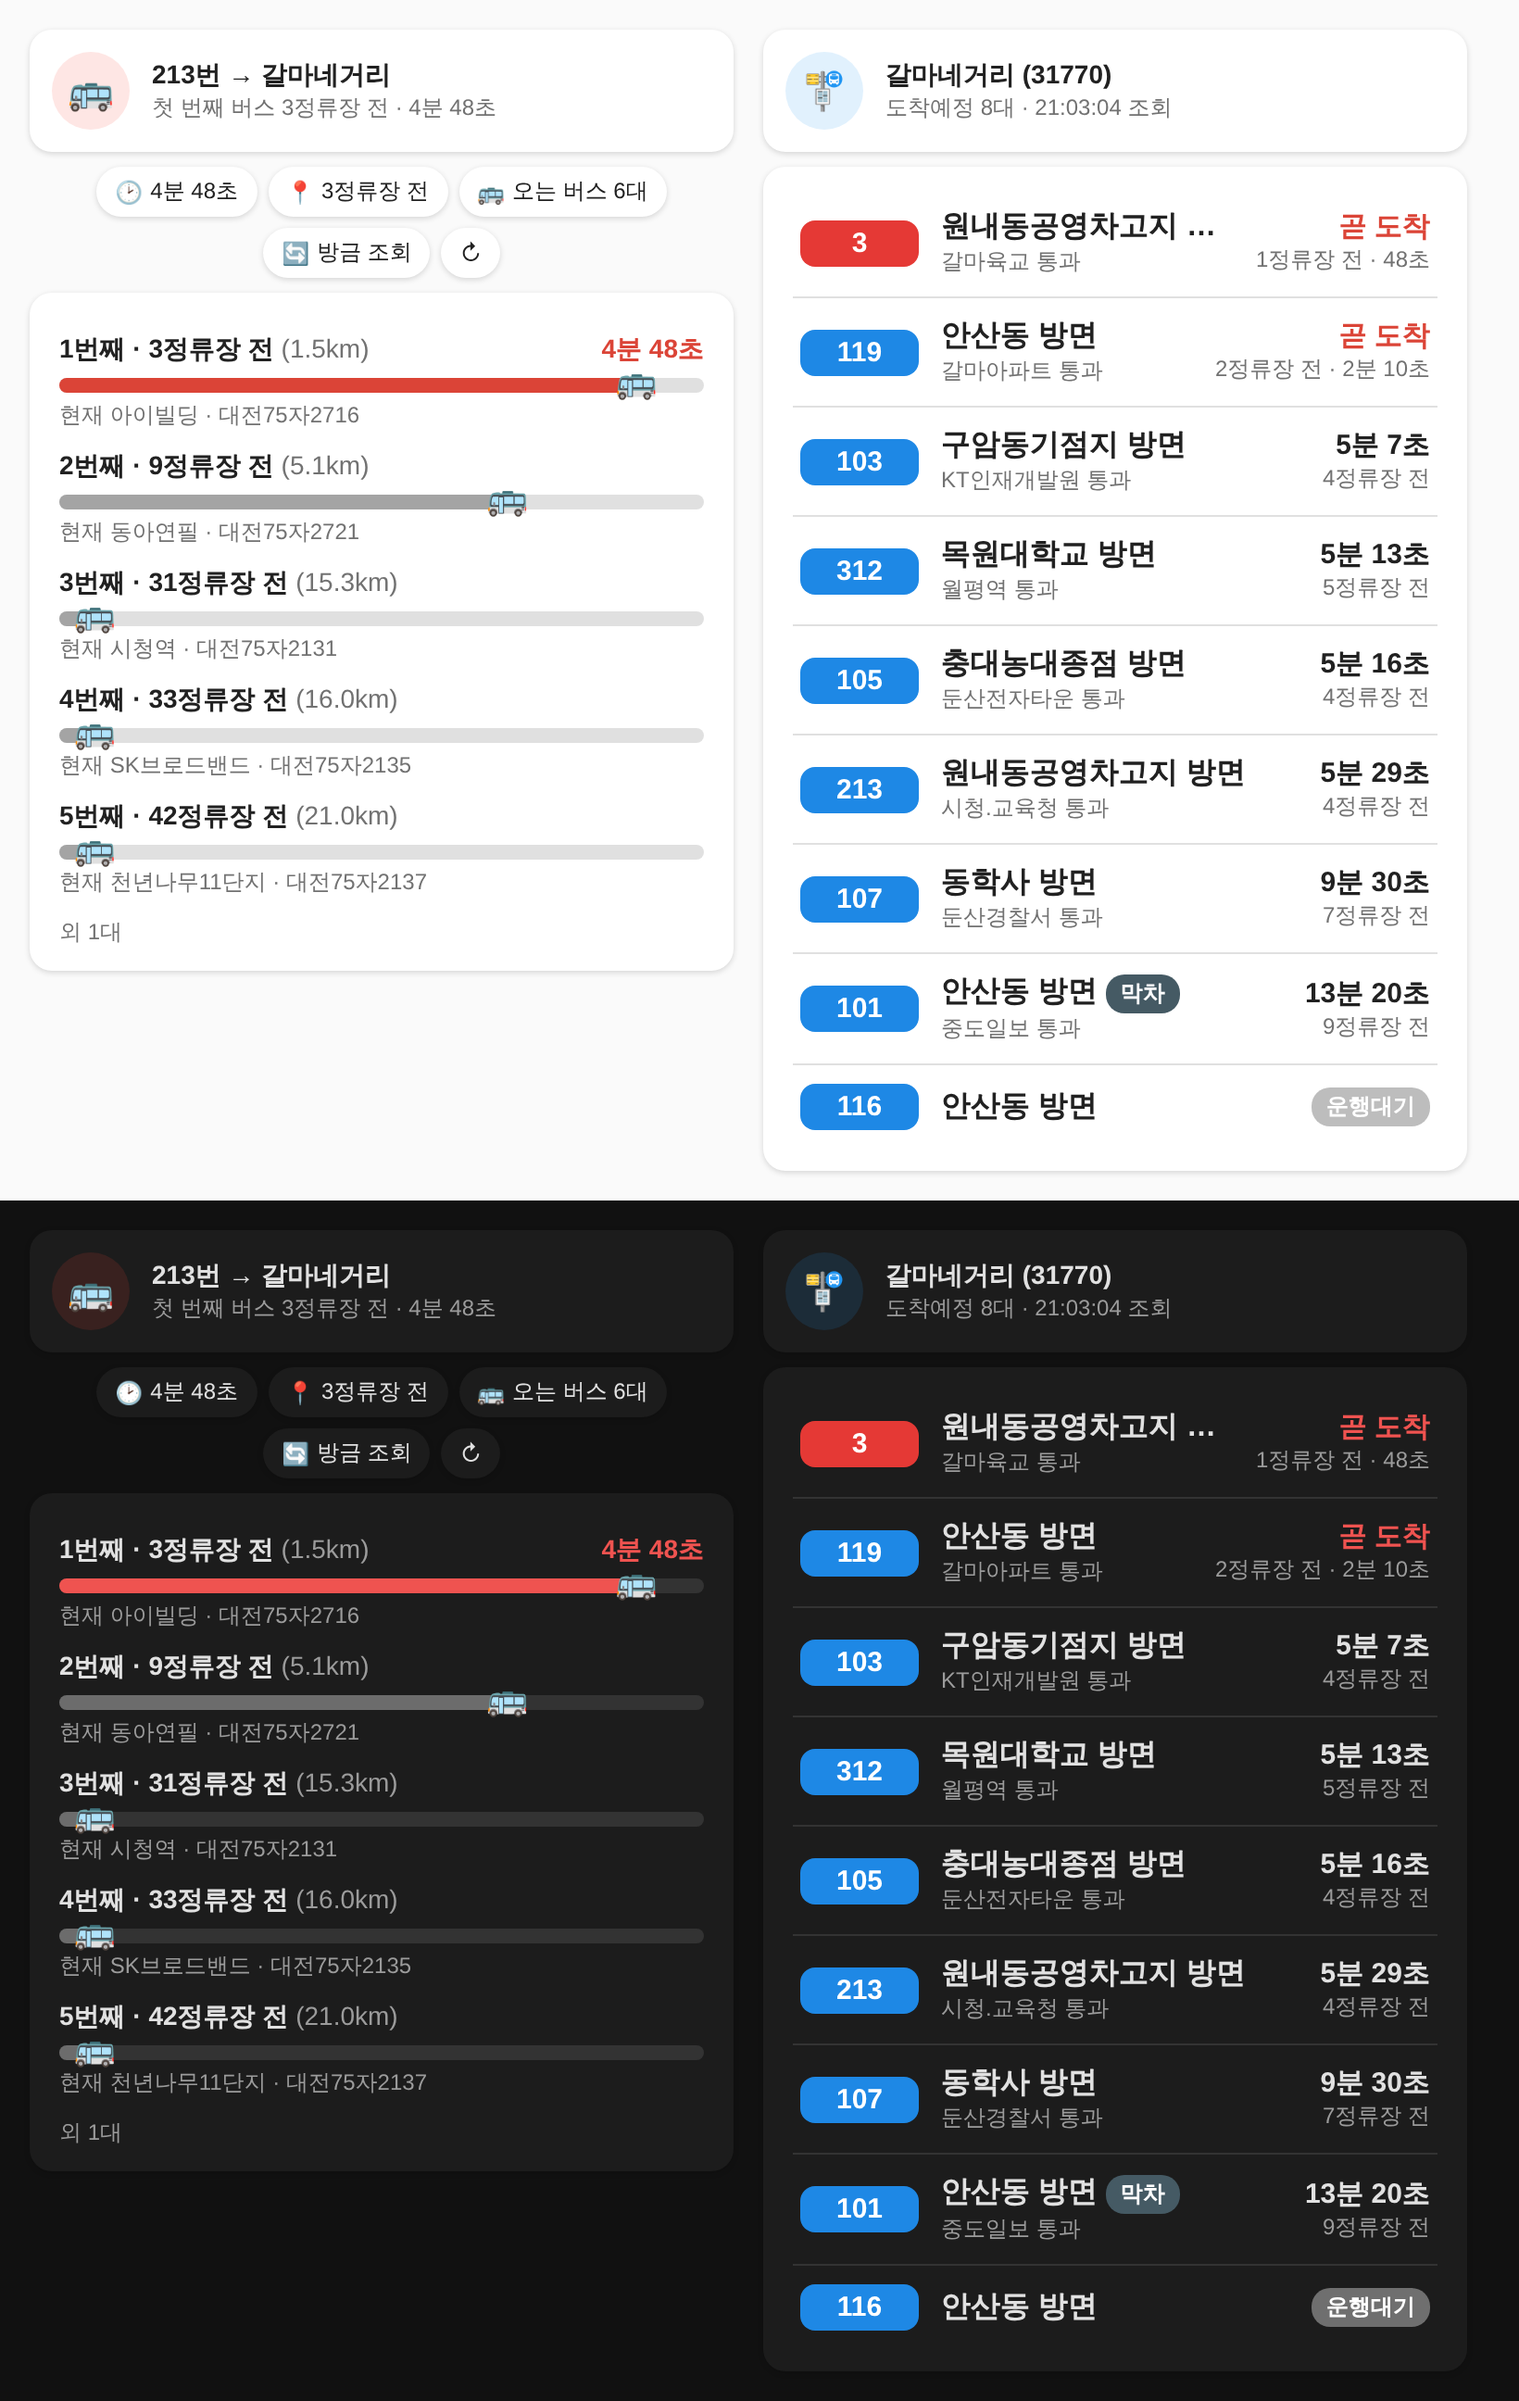
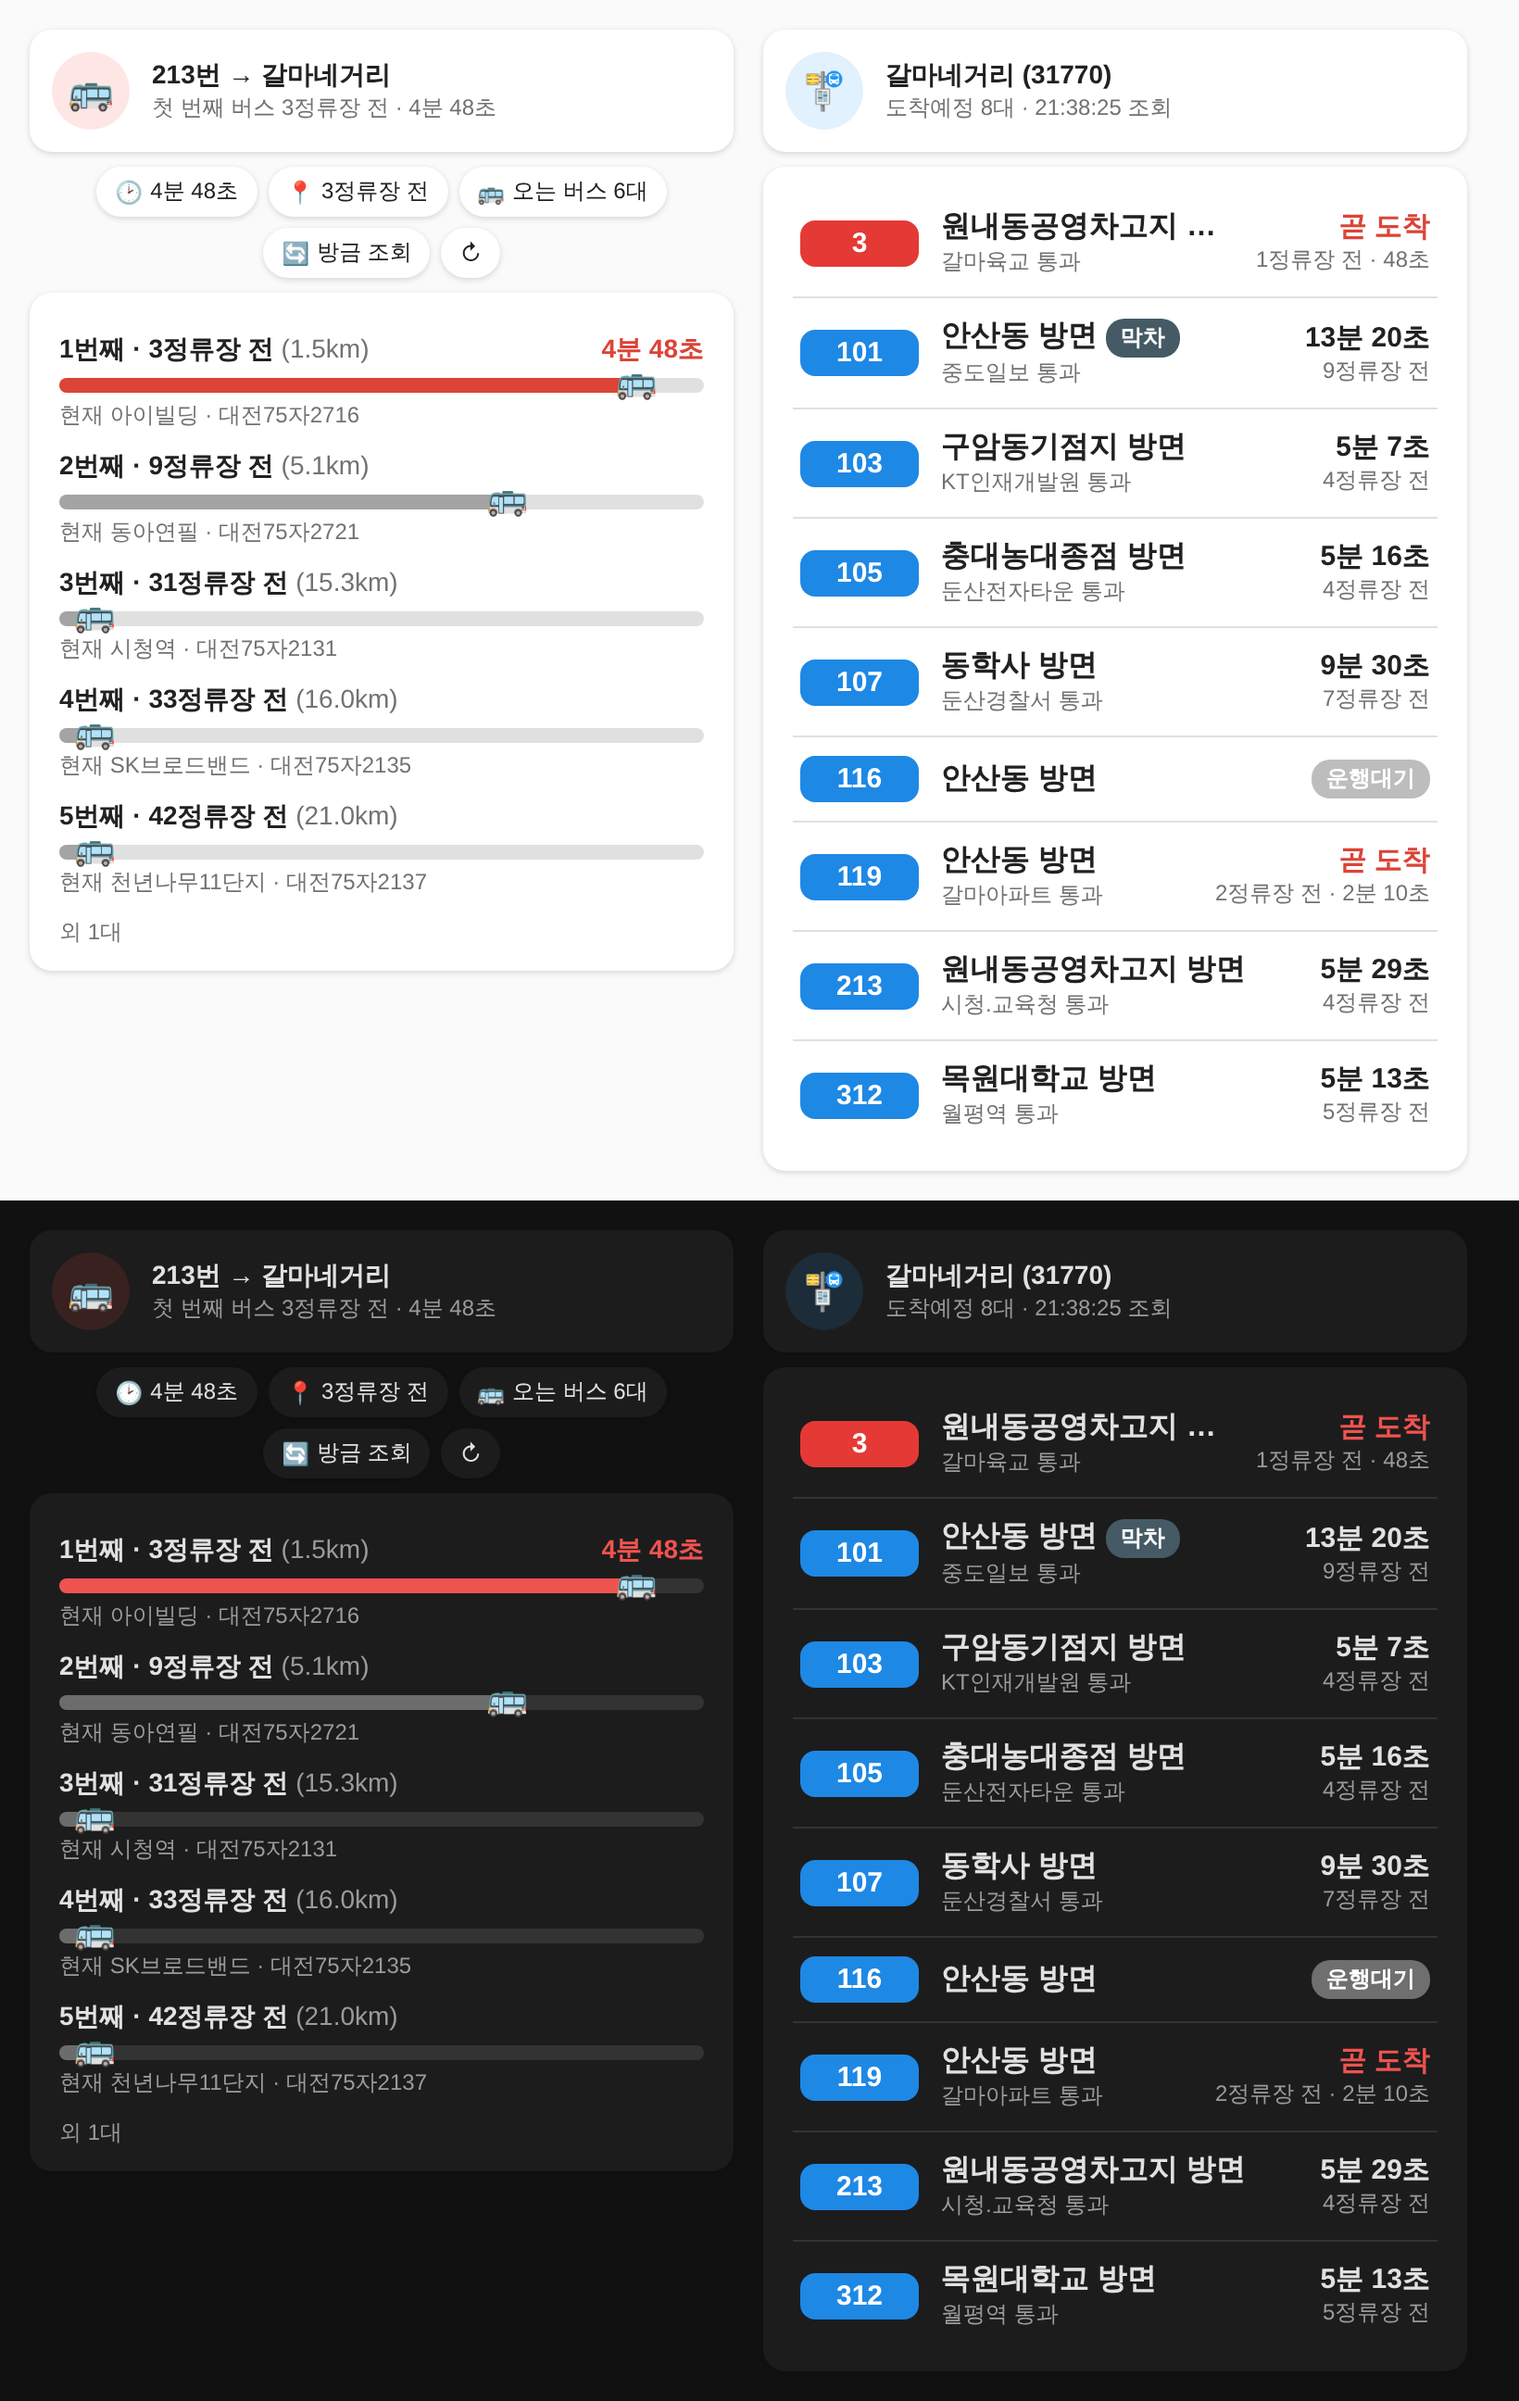
Sort station arrivals by route number
The station sensor's bus list and the per-route sensors are ordered
numerically (3 < 101 < 103 < 119), with lettered routes such as
급행/마을 after the numeric ones. Within a route the soonest bus is
still the first one.

Claude-Session: https://claude.ai/code/session_01KG28EwkVAkr6SPJMtJaLJQ

diff --git a/tests/test_features.py b/tests/test_features.py
@@ -225,3 +225,40 @@ async def test_reset_route_entities(hass):
         await hass.async_block_till_done()
         assert result == {"removed_entities": {entry.title: 2}}
         assert hass.states.get("sensor.daejeon_bus_31770_3") is not None
+
+
+# ---- 정렬 ----
+
+
+def test_route_number_key():
+    from custom_components.daejeon_bus.coordinator import route_number_key
+
+    routes = ["119", "급행2", "3", "103", "마을1", "101", "급행1", "1001"]
+    assert sorted(routes, key=route_number_key) == [
+        "3", "101", "103", "119", "1001", "급행1", "급행2", "마을1",
+    ]
+
+
+async def test_station_bus_list_sorted_by_route_number(hass):
+    """정류장 도착정보 버스 목록은 도착 순이 아니라 노선번호순."""
+    def item(no, sec, tp="03"):
+        return {**ITEMS[0], "ROUTE_NO": no, "ROUTE_CD": f"303{no}", "EXTIME_SEC": str(sec),
+                "MSG_TP": tp, "LAST_STOP_ID": None}
+
+    items = [item("119", 130), item("급행2", 60), item("3", 900), item("103", 307),
+             item("101", 50, tp="07"), item("3", 100)]
+    entry = MockConfigEntry(
+        domain=DOMAIN,
+        data={"entry_type": "station", "api_key": "k", "station_id": "31770"},
+        unique_id="31770",
+    )
+    entry.add_to_hass(hass)
+    with patch.object(DaejeonBusApi, "get_arrivals", return_value=items):
+        assert await hass.config_entries.async_setup(entry.entry_id)
+        await hass.async_block_till_done()
+
+    buses = hass.states.get("sensor.daejeon_bus_31770").attributes["버스 목록"]
+    assert [b["노선"] for b in buses] == ["3", "101", "103", "119", "급행2"]
+    # 같은 노선은 도착 빠른 버스가 첫 차, 운행대기도 번호 자리에 그대로
+    assert buses[0]["도착예정시간"] == "1분 40초"
+    assert buses[1]["운행 상태"] == "운행대기"

diff --git a/custom_components/daejeon_bus/sensor.py b/custom_components/daejeon_bus/sensor.py
@@ -40,7 +40,7 @@ from .coordinator import (
     format_seconds,
     msg_type,
     parse_targets,
-    sort_key,
+    route_number_key,
     to_int,
 )
 from .entity import DaejeonBusEntity
@@ -151,7 +151,7 @@ async def async_setup_entry(
             new.append(DaejeonBusRouteSensor(coordinator, route_no))
         return new
 
-    entities.extend(_new_route_sensors(route_nos))
+    entities.extend(_new_route_sensors(sorted(set(route_nos), key=route_number_key)))
     async_add_entities(entities)
 
     if targets:
@@ -161,7 +161,7 @@ async def async_setup_entry(
     @callback
     def _async_add_new_routes() -> None:
         routes = (coordinator.data or {}).get("routes", {})
-        if new := _new_route_sensors(list(routes)):
+        if new := _new_route_sensors(sorted(routes, key=route_number_key)):
             async_add_entities(new)
 
     entry.async_on_unload(coordinator.async_add_listener(_async_add_new_routes))
@@ -187,8 +187,10 @@ class DaejeonBusStationSensor(DaejeonBusEntity, SensorEntity):
     @property
     def extra_state_attributes(self) -> dict[str, Any]:
         data = self.coordinator.data or {}
+        # 노선번호순 (같은 노선 안에서는 도착 빠른 버스가 첫 차)
         firsts = sorted(
-            (items[0] for items in data.get("routes", {}).values()), key=sort_key
+            (items[0] for items in data.get("routes", {}).values()),
+            key=lambda item: route_number_key(item.get("ROUTE_NO")),
         )
         buses = [
             {

diff --git a/custom_components/daejeon_bus/coordinator.py b/custom_components/daejeon_bus/coordinator.py
@@ -8,6 +8,7 @@ from __future__ import annotations
 
 from datetime import datetime, time, timedelta
 import logging
+import re
 from typing import Any
 
 from homeassistant.config_entries import ConfigEntry
@@ -120,6 +121,16 @@ def format_seconds(sec: int | None) -> str | None:
         return f"{sec}초"
     minutes, seconds = divmod(sec, 60)
     return f"{minutes}분 {seconds}초"
+
+
+def route_number_key(route_no: Any) -> tuple:
+    """노선번호 정렬 키: 숫자 노선은 숫자 크기순(3 < 103 < 119), 그 뒤에 문자 노선(급행1, 마을2 …)."""
+    text = str(route_no or "").strip()
+    match = re.match(r"^(\D*)(\d+)(.*)$", text)
+    if not match:
+        return (2, text, 0, "")
+    prefix, number, rest = match.groups()
+    return (1 if prefix else 0, prefix, int(number), rest)
 
 
 def group_arrivals(items: list[dict[str, Any]]) -> dict[str, list[dict[str, Any]]]:

diff --git a/README.md b/README.md
@@ -69,7 +69,7 @@ flowchart TD
     B --> C{"대상 버스 목록 설정?"}
     C -- 예 --> D["해당 노선만 남김"]
     C -- 아니오 --> E["전체 노선"]
-    D --> F["노선번호별로 묶고 도착 빠른 순 정렬"]
+    D --> F["노선번호별로 묶기 (노선 안에서는 도착 빠른 순) → 노선번호순 정렬"]
     E --> F
     F --> G["최근 통과 정류장 이름 찾기 (정류장 이름 플로우)"]
     G --> H["MSG_TP / 도착예정 / 잔여 정류장으로 상태 결정"]
@@ -193,7 +193,7 @@ flowchart LR
   4. 도착예정시간이 기준 이하 → **곧 도착 (N정류장 전)** (기본 3분, 0이면 끔)
   5. 그 외 → **도착예정시간 (N정류장 전)**
 - **실제 남은 시간:** 상태가 `곧 도착`이어도 실제 남은 시간은 `도착예정시간` 속성에 있습니다.
-- **정렬:** 운행대기 버스는 목록 맨 뒤로 갑니다.
+- **정렬:** `버스 목록`과 노선 센서는 **노선번호순**입니다. 숫자 노선은 숫자 크기순(3 → 101 → 103 → 119)이고, `급행`·`마을` 같은 문자 노선은 그 뒤에 옵니다. 같은 노선에 버스가 여러 대면 도착이 빠른 버스가 첫 차이고, 나머지는 `다음 버스` 속성에 있습니다.
 
 ## 노선으로 조회
 
